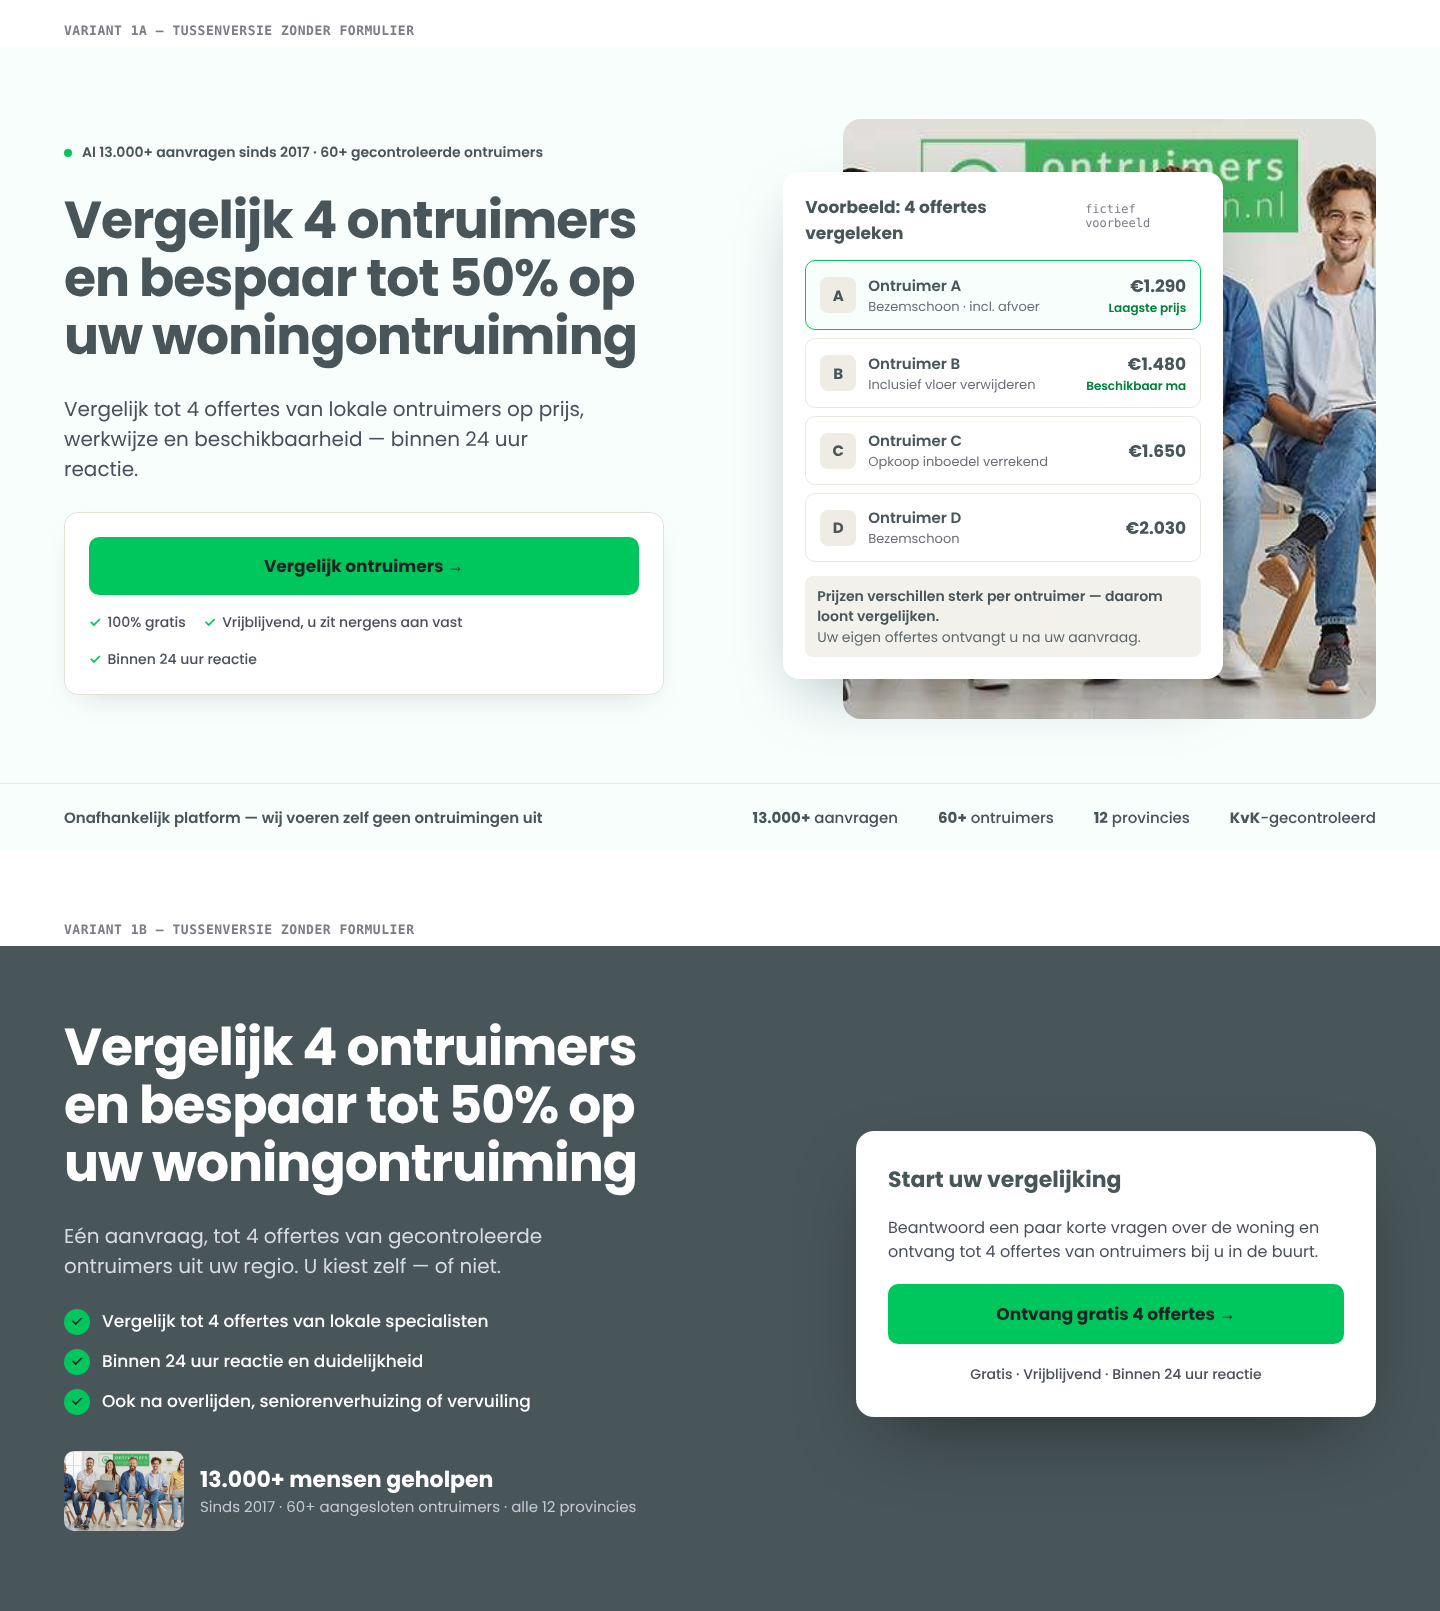
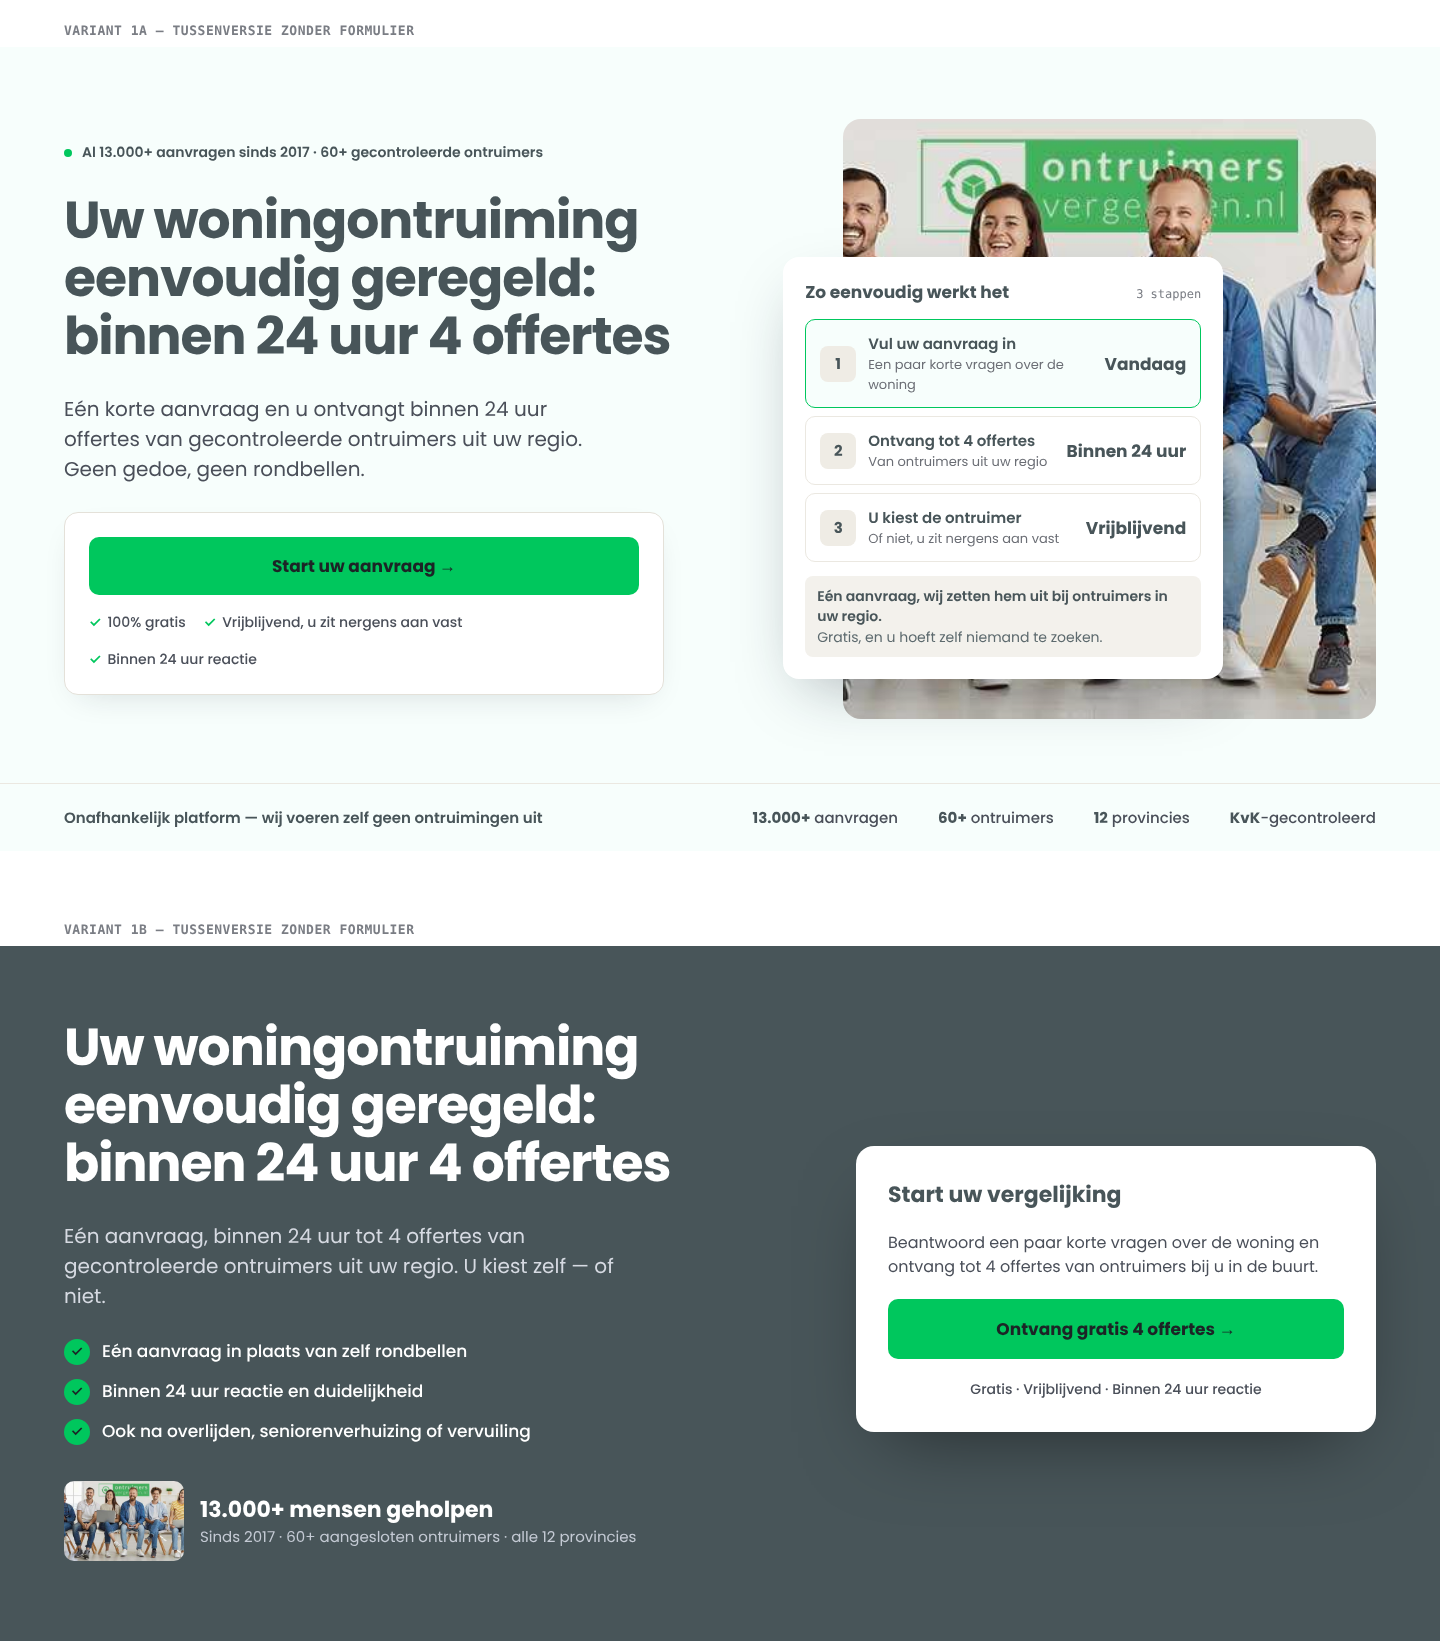
Hero tussenversie: insteek gemak/eenvoud/snelheid, link naar /offerte-formulier/
Nieuwe H1 en intro's, offertekaart in 1a vervangen door stappenkaart,
knoppen linken naar /offerte-formulier/.

Claude-Session: https://claude.ai/code/session_0185KKPgM6NnogCRvijg1Ce9

diff --git a/hero-tussenversie/preview.html b/hero-tussenversie/preview.html
@@ -82,6 +82,11 @@ body{margin:0;font-family:Poppins,sans-serif;background:#fff;color:#485559}
   .ov-1a .ov-right{height:auto;display:flex;flex-direction:column;gap:16px}
   .ov-photo{position:static;width:100%;height:260px}
   .ov-quote{position:static;width:100%}
+  .ov-row{display:grid;grid-template-columns:36px 1fr;column-gap:12px;row-gap:2px}
+  .ov-letter{grid-row:1 / span 2}
+  .ov-price{grid-column:2;grid-row:1;text-align:left}
+  .ov-price b{font:600 12px Poppins,sans-serif;color:#00803C}
+  .ov-who{grid-column:2;grid-row:2}
   .ov-bar .ov-bar-in{padding:18px 20px}
   .ov-bar-r{gap:16px 24px}
   .ov-card-1b{padding:24px}
@@ -96,10 +101,10 @@ body{margin:0;font-family:Poppins,sans-serif;background:#fff;color:#485559}
   <div class="ov-wrap">
     <div class="ov-left">
       <div class="ov-badge">Al 13.000+ aanvragen sinds 2017 · 60+ gecontroleerde ontruimers</div>
-      <h1 class="ov-h1">Vergelijk 4 ontruimers en bespaar tot 50% op uw woningontruiming</h1>
-      <p class="ov-intro">Vergelijk tot 4 offertes van lokale ontruimers op prijs, werkwijze en beschikbaarheid — binnen 24 uur reactie.</p>
+      <h1 class="ov-h1">Uw woningontruiming eenvoudig geregeld: binnen 24 uur 4 offertes</h1>
+      <p class="ov-intro">Eén korte aanvraag en u ontvangt binnen 24 uur offertes van gecontroleerde ontruimers uit uw regio. Geen gedoe, geen rondbellen.</p>
       <div class="ov-card-1a">
-        <a class="ov-cta ov-hero-cta" href="/offerte-aanvragen/" data-variant="1a">Vergelijk ontruimers →</a>
+        <a class="ov-cta ov-hero-cta" href="/offerte-formulier/" data-variant="1a">Start uw aanvraag →</a>
         <ul class="ov-trust">
           <li>100% gratis</li>
           <li>Vrijblijvend, u zit nergens aan vast</li>
@@ -110,14 +115,13 @@ body{margin:0;font-family:Poppins,sans-serif;background:#fff;color:#485559}
     <div class="ov-right">
       <img class="ov-photo" src="https://www.ontruimersvergelijken.nl/wp-content/uploads/2023/11/Het-team-van-Ontruimers-Vergelijken.jpg" alt="Het team van Ontruimers Vergelijken">
       <div class="ov-quote">
-        <div class="ov-quote-head"><strong>Voorbeeld: 4 offertes vergeleken</strong><span>fictief voorbeeld</span></div>
+        <div class="ov-quote-head"><strong>Zo eenvoudig werkt het</strong><span>3 stappen</span></div>
         <div class="ov-rows">
-          <div class="ov-row is-best"><div class="ov-letter">A</div><div class="ov-who"><b>Ontruimer A</b><small>Bezemschoon · incl. afvoer</small></div><div class="ov-price"><b>€1.290</b><small>Laagste prijs</small></div></div>
-          <div class="ov-row"><div class="ov-letter">B</div><div class="ov-who"><b>Ontruimer B</b><small>Inclusief vloer verwijderen</small></div><div class="ov-price"><b>€1.480</b><small>Beschikbaar ma</small></div></div>
-          <div class="ov-row"><div class="ov-letter">C</div><div class="ov-who"><b>Ontruimer C</b><small>Opkoop inboedel verrekend</small></div><div class="ov-price"><b>€1.650</b></div></div>
-          <div class="ov-row"><div class="ov-letter">D</div><div class="ov-who"><b>Ontruimer D</b><small>Bezemschoon</small></div><div class="ov-price"><b>€2.030</b></div></div>
+          <div class="ov-row is-best"><div class="ov-letter">1</div><div class="ov-who"><b>Vul uw aanvraag in</b><small>Een paar korte vragen over de woning</small></div><div class="ov-price"><b>Vandaag</b></div></div>
+          <div class="ov-row"><div class="ov-letter">2</div><div class="ov-who"><b>Ontvang tot 4 offertes</b><small>Van ontruimers uit uw regio</small></div><div class="ov-price"><b>Binnen 24 uur</b></div></div>
+          <div class="ov-row"><div class="ov-letter">3</div><div class="ov-who"><b>U kiest de ontruimer</b><small>Of niet, u zit nergens aan vast</small></div><div class="ov-price"><b>Vrijblijvend</b></div></div>
         </div>
-        <div class="ov-note">Prijzen verschillen sterk per ontruimer — daarom loont vergelijken.<span>Uw eigen offertes ontvangt u na uw aanvraag.</span></div>
+        <div class="ov-note">Eén aanvraag, wij zetten hem uit bij ontruimers in uw regio.<span>Gratis, en u hoeft zelf niemand te zoeken.</span></div>
       </div>
     </div>
   </div>
@@ -134,10 +138,10 @@ body{margin:0;font-family:Poppins,sans-serif;background:#fff;color:#485559}
 <section class="ov-1b">
   <div class="ov-wrap">
     <div class="ov-left">
-      <h1 class="ov-h1">Vergelijk 4 ontruimers en bespaar tot 50% op uw woningontruiming</h1>
-      <p class="ov-intro">Eén aanvraag, tot 4 offertes van gecontroleerde ontruimers uit uw regio. U kiest zelf — of niet.</p>
+      <h1 class="ov-h1">Uw woningontruiming eenvoudig geregeld: binnen 24 uur 4 offertes</h1>
+      <p class="ov-intro">Eén aanvraag, binnen 24 uur tot 4 offertes van gecontroleerde ontruimers uit uw regio. U kiest zelf — of niet.</p>
       <ul class="ov-usp">
-        <li>Vergelijk tot 4 offertes van lokale specialisten</li>
+        <li>Eén aanvraag in plaats van zelf rondbellen</li>
         <li>Binnen 24 uur reactie en duidelijkheid</li>
         <li>Ook na overlijden, seniorenverhuizing of vervuiling</li>
       </ul>
@@ -149,7 +153,7 @@ body{margin:0;font-family:Poppins,sans-serif;background:#fff;color:#485559}
     <div class="ov-card-1b">
       <h2>Start uw vergelijking</h2>
       <p>Beantwoord een paar korte vragen over de woning en ontvang tot 4 offertes van ontruimers bij u in de buurt.</p>
-      <a class="ov-cta ov-hero-cta" href="/offerte-aanvragen/" data-variant="1b">Ontvang gratis 4 offertes →</a>
+      <a class="ov-cta ov-hero-cta" href="/offerte-formulier/" data-variant="1b">Ontvang gratis 4 offertes →</a>
       <div class="ov-small">Gratis · Vrijblijvend · Binnen 24 uur reactie</div>
     </div>
   </div>

diff --git a/hero-tussenversie/README.md b/hero-tussenversie/README.md
@@ -9,7 +9,9 @@ Tussenstap vóór de postcodevariant: de hero heeft **geen invoerveld**. Er staa
 
 | Onderdeel | Overdracht | Tussenversie |
 |---|---|---|
-| 1a formulierkaart | Label + postcodeveld + knop | Alleen knop `Vergelijk ontruimers →` (58px) + trust-rij |
+| Insteek | Besparen ("tot 50%", prijzen vergelijken) | Gemak, eenvoud, snelheid |
+| 1a formulierkaart | Label + postcodeveld + knop | Alleen knop `Start uw aanvraag →` (58px) + trust-rij |
+| 1a offertekaart | 4 fictieve prijzen | Kaart "Zo eenvoudig werkt het" in dezelfde stijl (3 stappen) |
 | 1b formulierkaart | Titel + postcodeveld + knop + regel | Titel + korte zin + knop `Ontvang gratis 4 offertes →` (60px) + regel |
 | Formidable | `[get param="postcode"]` instellen | **Niets aanpassen**, het formulier blijft zoals het is |
 | HTML-widget | Nodig voor postcodeveld | Niet nodig, gewone Elementor **Button**-widget |
@@ -18,18 +20,35 @@ Tussenstap vóór de postcodevariant: de hero heeft **geen invoerveld**. Er staa
 Nieuwe tekst in 1b (vervangt het postcodeveld, graag bevestigen):
 > Beantwoord een paar korte vragen over de woning en ontvang tot 4 offertes van ontruimers bij u in de buurt.
 
+## Teksten (gewijzigd t.o.v. de overdracht)
+
+**H1 (beide):** Uw woningontruiming eenvoudig geregeld: binnen 24 uur 4 offertes
+
+**Intro 1a:** Eén korte aanvraag en u ontvangt binnen 24 uur offertes van gecontroleerde ontruimers uit uw regio. Geen gedoe, geen rondbellen.
+
+**Intro 1b:** Eén aanvraag, binnen 24 uur tot 4 offertes van gecontroleerde ontruimers uit uw regio. U kiest zelf — of niet.
+
+**USP 1 in 1b:** Eén aanvraag in plaats van zelf rondbellen (de andere twee blijven)
+
+**Stappenkaart 1a** (vervangt de offertekaart, zelfde opmaak: rij 1 groen omrand, nummer in het grijze vierkant, rechts vet de timing):
+- Kop: `Zo eenvoudig werkt het` + rechts `3 stappen`
+- 1 · Vul uw aanvraag in · Een paar korte vragen over de woning · **Vandaag**
+- 2 · Ontvang tot 4 offertes · Van ontruimers uit uw regio · **Binnen 24 uur**
+- 3 · U kiest de ontruimer · Of niet, u zit nergens aan vast · **Vrijblijvend**
+- Voetnoot: `Eén aanvraag, wij zetten hem uit bij ontruimers in uw regio.` / `Gratis, en u hoeft zelf niemand te zoeken.`
+
 ## Bouwen in Elementor
 
 1. Dupliceer de homepage twee keer: `Homepage – test hero 1a` (`test-hero-1a`) en `Homepage – test hero 1b` (`test-hero-1b`). Status **Concept**, `noindex`.
 2. Vervang alleen de hero-sectie. Header, footer, de secties eronder en het formulier blijven ongemoeid.
 3. Knop = **Button**-widget:
-   - Link: `FORMULIER_URL` (placeholder `/offerte-aanvragen/`, nog te bevestigen)
+   - Link: `/offerte-formulier/`
    - Achtergrond `#00C75D`, tekst `#1C2426` (niet wit), Poppins 700 17px, radius 10px, volle breedte
    - Hoogte: 58px (1a) / 60px (1b), mobiel minimaal 56px
    - Hover: iets donkerder (`#00B354`)
    - Geavanceerd → CSS-classes: `ov-hero-cta ov-hero-cta-1a` resp. `ov-hero-cta ov-hero-cta-1b`
 4. Trust-items (1a) en de regel onder de knop (1b): Text Editor-widget, 500 14px `#4A4F59`, groene `✓` (800, `#00C75D`).
-5. De overige onderdelen (badge, H1, intro, foto, offertekaart, balk, USP-lijst, proof-rij) bouw je exact zoals in de overdracht.
+5. De overige onderdelen (badge, foto, balk, proof-rij) bouw je exact zoals in de overdracht; H1, intro's, USP's en de stappenkaart met de teksten hierboven.
 
 ## Meten (GTM)
 
@@ -51,6 +70,4 @@ document.querySelectorAll('.ov-hero-cta a, a.ov-hero-cta').forEach(function(a){
 
 ## Open punten
 
-- FORMULIER_URL bevestigen (nu `/offerte-aanvragen/`)
-- Percentage "tot 50%" in de H1 bevestigen
 - 1b mobiel: de formulierkaart staat nu ónder de USP's en proof-rij. Wil je de knop hoger hebben, zet de kaart in Elementor dan op mobiel op volgorde 2 (direct na de intro).
